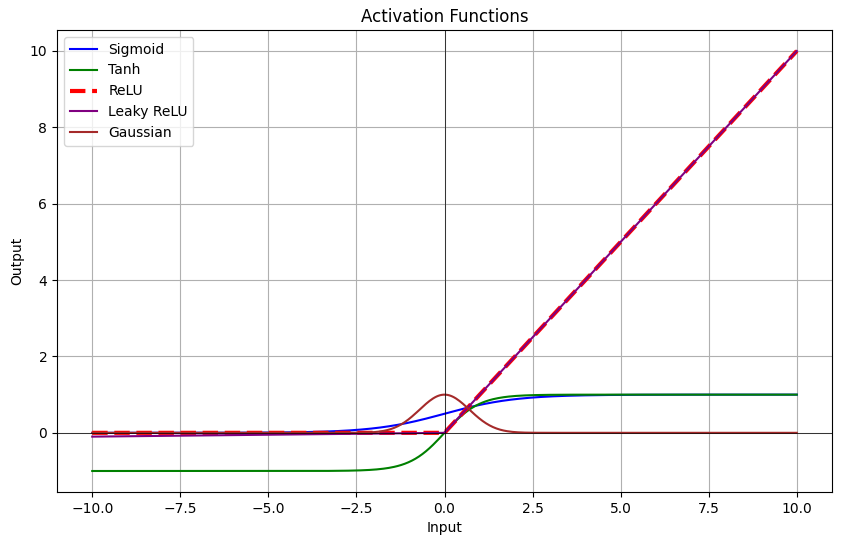
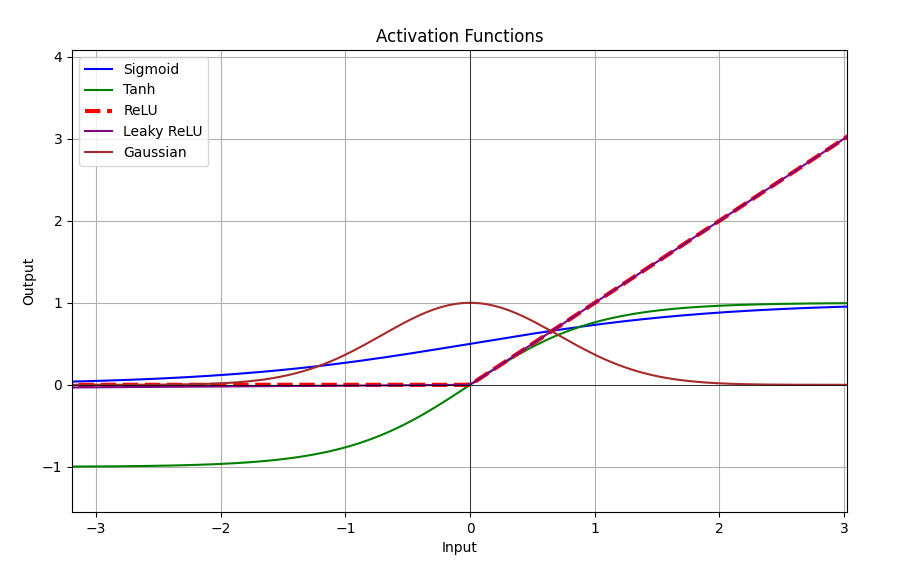
New Graph better visual comp and new information for introduction
New Graph better visual comp and new information for introduction

diff --git a/Documentation/AI Boys V2_documentation.tex b/Documentation/AI Boys V2_documentation.tex
@@ -1,6 +1,7 @@
 \documentclass[conference]{IEEEtran}
 \IEEEoverridecommandlockouts
 % The preceding line is only needed to identify funding in the first footnote. If that is unneeded, please comment it out.
+\usepackage{hyperref}
 \usepackage{cite}
 \usepackage{amsmath,amssymb,amsfonts}
 \usepackage{algorithmic}
@@ -50,7 +51,30 @@ Neural Networks, Supervised Learning, Structured Learning
 
 \section{Introduction}
 
-It is known that some people find it difficult to identify whether fruit is fresh or rotten. This can be due to various factors such as visual impairments, lack of experience, or subtle signs of decay that are not easily detectable. To address this issue, we have developed an Artificial Intelligence (AI) model designed to determine if certain fruits are fresh or if they are rotten. The fruits that we trained the model on are apples, bananas, and oranges.
+It is known that some individuals might find it difficult to identify whether fruit is fresh or rotten. This can be due to various factors such as visual impairments, lack of experience, or subtle signs of decay that are not easily detectable. To address this issue, the development of an Artificial Intelligence (AI) model designed to determine whether certain fruits are fresh or if they are rotten. The fruits that are trained to the model are apples, bananas, and oranges.
+
+The Convolutional Neural Network (CNN) is a renowned deep learning architecture that draws inspiration from living species' innate visual perception mechanisms.There are multiple variants and adaptations of a conventional CNN design. However, the essential components remain quite the same \cite{b6}.
+
+Consider the widely recognised LeNet-5, which is made up of three types of layers: convolutional, pooling, and fully-connected. It can accurately represent the original image, allowing for visual pattern recognition with little preprocessing \cite{b6}.
+\\
+The convolutional layer is designed to learn feature representations of the inputs.Specifically, each neuron of a feature map is linked to an area of nearby neurons in the preceding layer. In the preceding layer, this area was referred to as the neuron's receptive field \cite{b6}.
+\\
+\begin{figure}[h]
+    \centering
+    \includegraphics[width=\linewidth]{Lenet-5 Network.png}
+    \caption{Lenet-5 Network by }
+    \label{fig}
+\end{figure}
+\\
+\begin{figure}[h]
+    \centering
+    \includegraphics[width=\linewidth]{CNN Components.png}
+    \caption{CNN Broad Categories by}
+    \label{fig}
+\end{figure}
+\\
+Many works have be done to propose improvements to its performance such as the following.
+Increasing depth improves the network's ability to estimate the target function with nonlinearity and provide better feature representations. However, this increases network complexity, making it more challenging to optimise and prone to overfitting \cite{b6}.
 
 \section{Dataset and Preprocessing}
 
@@ -108,8 +132,11 @@ As ReLU, or rectified linear unit, can be effectively used in both pre-training 
     \label{fig}
 \end{figure}
 \\
+\\
 The function is defined as
 \(f(x) = max(0,x)\)
+\\
+\\
 Being computationally simple and efficient compared to other activation functions like sigmoid and tanh.Which means it requires only a thresholding at zero. This simplicity reduces the computational overhead during both the forward and backward passes of the network, speeding up the training process.
 
 ReLU does not saturate in the positive domain. Unlike sigmoid or tanh, which can suffer from vanishing gradients due to their output being bounded between 0 and 1 or -1 and 1 respectively, ReLU outputs raw positive values. This helps in maintaining a strong gradient flow, especially in deeper networks, which facilitates faster convergence[Missing]
@@ -213,6 +240,8 @@ We would like to acknowledge Pieter Swanepoel for assisting us with the setup of
 \bibitem{b3} O'shea, K. and Nash, R., 2015. An introduction to convolutional neural networks. arXiv preprint arXiv:1511.08458.
 \bibitem{b4} Brownlee, J., 2018. What is the Difference Between a Batch and an Epoch in a Neural Network. Machine learning mastery, 20.
 \bibitem{b5} Santos, C.F.G.D. and Papa, J.P., 2022. Avoiding overfitting: A survey on regularization methods for convolutional neural networks. ACM Computing Surveys (CSUR), 54(10s), pp.1-25.
+\bibitem{b6} Gu, J. et al., 2018. Recent advances in convolutional neural networks. Pattern Recognition, Volume 77, pp. 354-377.
+
 
 \end{thebibliography}
 
